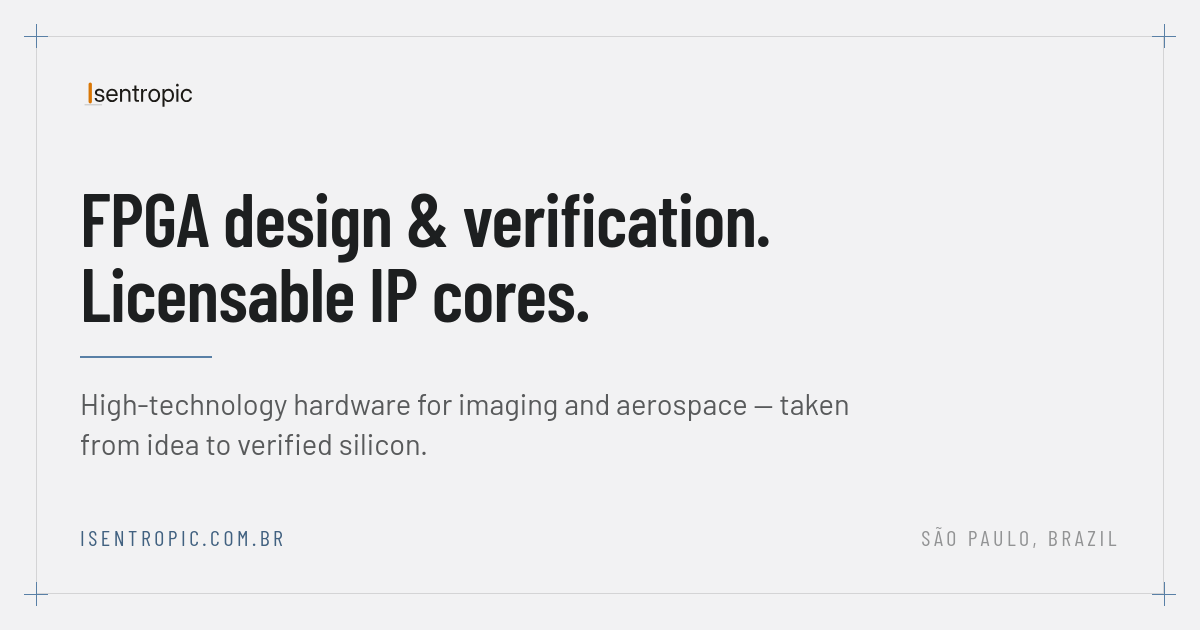
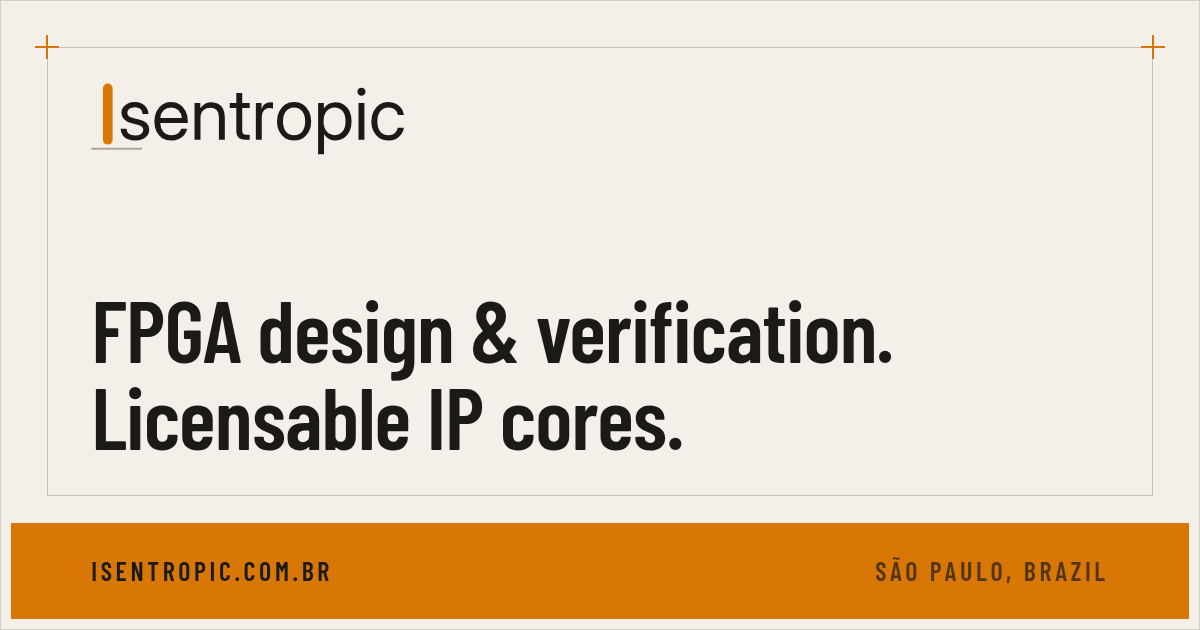
Make the social cards readable at the size a feed paints them
Two defects, both invisible at 1:1 and fatal at thumbnail size.

og-card.png shipped in the design system's stock steel-blue-on-grey:
SocialCards.dc.html loaded the Industry stylesheet but never site.css,
which is what re-points the palette to amber on warm paper. The preview
shared no color at all with the site it links to, and the only amber on
it was the tick baked into the wordmark SVG.

The wordmark was also sized as mostly padding. Its viewBox is 481x180
but the ink spans only x 18..438 and y 60..150, so the 123x46 box bought
an 18px cap-height — about 8px once LinkedIn paints the card at 552px.
That is why the card read as unbranded text.

Both cards now link site.css, size the wordmark by its ink rather than
its box, and carry the frame and registration marks at 2px so they
survive the ~46% downscale instead of vanishing. Copy that went
illegible at feed scale is cut: the main card keeps its two headline
lines at 86px over a solid amber base band, the one element still
carrying the brand at 320px, and OpenJLS keeps a one-line description
whose old tail merely restated the stats row beneath it.

diff --git a/SocialCards.dc.html b/SocialCards.dc.html
@@ -10,63 +10,128 @@
 <helmet>
 <link rel="stylesheet" href="_ds/industry-8df8084b-247a-4c13-b5b0-50b41d41eb2f/styles.css">
 <script src="_ds/industry-8df8084b-247a-4c13-b5b0-50b41d41eb2f/_ds_bundle.js"></script>
+<!-- site.css carries the warm retune of the Industry palette (amber on paper).
+     Without it the cards render in Industry's stock steel-blue-on-grey, which
+     is what shipped in og-card.png: a preview that shares no color at all with
+     the site it links to. -->
+<link rel="stylesheet" href="site.css">
 <link rel="preconnect" href="https://fonts.googleapis.com">
 <link rel="preconnect" href="https://fonts.gstatic.com" crossorigin="">
+<style>
+/* ---- card tokens ----
+   A card is static art, not a themed page: site.css hangs the dark ramp off
+   html[data-theme="dark"], which cannot scope to one card when several sit on
+   the same board. Re-declaring those same values on .card-dark lets a dark
+   card use the identical var() names as a light one. Keep in step with the
+   dark block in site.css. */
+.card-dark{
+  --color-bg:#16130e; --color-surface:#1f1b14; --color-text:#f0ebe1;
+  --color-accent:#e08b23; --color-accent-700:#eeb367; --color-accent-900:#48290c;
+}
+
+/* ---- wordmark ----
+   isentropic-wordmark.svg has a 481x180 viewBox but its ink spans only
+   x 18..438 and y 60..150 — 87% of the width and 50% of the height. Sizing the
+   <img> therefore sizes mostly padding: the card used to ask for 123x46 and got
+   an 18px cap-height, which LinkedIn paints at ~8px. Nobody could see it, so
+   the card read as unbranded text.
+
+   .wm sizes the box so the INK lands at a 52px cap-height, then pulls the dead
+   padding back out of the flow with negative margins so the letterforms sit
+   flush against the headline and the frame.
+     scale 134/180 = 0.744 -> ink starts 13.4 in from the left, 44.6 down from
+     the top, and leaves 22.7 of slack under the descenders. */
+.wm{width:358px;height:134px;display:block;position:relative;align-self:flex-start;
+    margin:-44.6px 0 -22.7px -13.4px;}
+
+/* ---- registration marks ----
+   The engineering-drawing motif, at 2px so it survives the ~46% downscale a
+   feed applies; the old 1px marks and the 14%-opacity frame vanished entirely. */
+.cardframe{position:absolute;inset:36px;border:1px solid color-mix(in srgb,var(--color-text) 22%,transparent);}
+.regmark{position:absolute;width:24px;height:24px;
+  background:linear-gradient(var(--color-accent),var(--color-accent)) center/100% 2px no-repeat,
+             linear-gradient(var(--color-accent),var(--color-accent)) center/2px 100% no-repeat;}
+.rm-tl{left:24px;top:24px;} .rm-tr{right:24px;top:24px;}
+.rm-bl{left:24px;bottom:24px;} .rm-br{right:24px;bottom:24px;}
+
+.card{width:1200px;height:630px;flex:none;position:relative;overflow:hidden;box-sizing:border-box;
+      background:var(--color-bg);color:var(--color-text);display:flex;flex-direction:column;}
+/* Content layers sit above the absolutely-positioned frame. Named explicitly
+   rather than as `.card > *`: that blanket rule ties with .cardframe/.regmark
+   on specificity, wins by source order, and drops the frame parts back into
+   the flex flow — which reads as a mangled border and a top-crammed card. */
+.card > .lyr{position:relative;}
+.card-eyebrow{font-family:var(--font-heading);font-size:23px;font-weight:600;letter-spacing:0.16em;text-transform:uppercase;}
+</style>
 </helmet>
 
-<div style="display:flex;flex-direction:column;gap:32px;padding:32px;background:var(--color-neutral-200);">
+<div style="display:flex;flex-direction:column;gap:32px;padding:32px;background:var(--color-neutral-300);">
 
-  <div id="og-card" style="width:1200px;height:630px;flex:none;position:relative;background:var(--color-bg);color:var(--color-text);display:flex;flex-direction:column;justify-content:space-between;padding:76px 80px;box-sizing:border-box;overflow:hidden;">
-    <div style="position:absolute;inset:36px;border:1px solid color-mix(in srgb,var(--color-text) 14%,transparent);"></div>
-    <div style="position:absolute;left:24px;top:24px;width:24px;height:24px;background:linear-gradient(var(--color-accent),var(--color-accent)) center/100% 1px no-repeat,linear-gradient(var(--color-accent),var(--color-accent)) center/1px 100% no-repeat;"></div>
-    <div style="position:absolute;right:24px;top:24px;width:24px;height:24px;background:linear-gradient(var(--color-accent),var(--color-accent)) center/100% 1px no-repeat,linear-gradient(var(--color-accent),var(--color-accent)) center/1px 100% no-repeat;"></div>
-    <div style="position:absolute;left:24px;bottom:24px;width:24px;height:24px;background:linear-gradient(var(--color-accent),var(--color-accent)) center/100% 1px no-repeat,linear-gradient(var(--color-accent),var(--color-accent)) center/1px 100% no-repeat;"></div>
-    <div style="position:absolute;right:24px;bottom:24px;width:24px;height:24px;background:linear-gradient(var(--color-accent),var(--color-accent)) center/100% 1px no-repeat,linear-gradient(var(--color-accent),var(--color-accent)) center/1px 100% no-repeat;"></div>
+  <!-- ============================================================
+       og-card.png — the link preview for every page of the site.
+       Sized for the worst case rather than the best: a feed paints
+       1200x630 at ~552px, so nothing here may depend on detail that
+       does not survive a 46% downscale.
+       ============================================================ -->
+  <div id="og-card" class="card">
+    <!-- The frame stops 20px short of the band rather than running under it,
+         so the band reads as the card's base and not as a crop. -->
+    <div class="lyr" style="flex:1;display:flex;flex-direction:column;justify-content:space-between;padding:76px 80px 56px;">
+      <div class="cardframe" style="inset:36px 36px 20px;"></div>
+      <div class="regmark rm-tl"></div><div class="regmark rm-tr"></div>
 
-    <div style="position:relative;align-self:flex-start;width:123px;height:46px;">
-      <img src="out/isentropic-wordmark.svg" alt="Isentropic" style="width:123px;height:46px;display:block;"></div>
+      <img class="lyr wm" src="out/isentropic-wordmark.svg" alt="Isentropic">
 
-    <div style="position:relative;display:flex;flex-direction:column;gap:26px;">
-      <h1 style="font-family:var(--font-heading);font-size:74px;line-height:1.02;letter-spacing:-0.01em;font-weight:600;margin:0;max-width:900px;text-wrap:balance;">FPGA design &amp; verification.<br>Licensable IP cores.</h1>
-      <div style="width:132px;height:2px;background:var(--color-accent);"></div>
-      <p style="font-family:var(--font-body);font-size:29px;line-height:1.35;margin:0;color:color-mix(in srgb,var(--color-text) 72%,transparent);max-width:820px;">High-technology hardware for imaging and aerospace — taken from idea to verified silicon.</p>
+      <!-- Headline only. The strapline under it was the first thing to go
+           illegible at feed scale, and cutting it lets the two lines that do
+           carry the message run bigger. -->
+      <h1 class="lyr" style="font-family:var(--font-heading);font-size:86px;line-height:1.02;letter-spacing:-0.01em;font-weight:600;margin:0;max-width:1000px;">FPGA design &amp; verification.<br>Licensable IP cores.</h1>
     </div>
 
-    <div style="position:relative;display:flex;align-items:baseline;justify-content:space-between;font-family:var(--font-heading);font-size:22px;letter-spacing:0.16em;text-transform:uppercase;color:var(--color-accent-700);">
+    <!-- Solid amber base. This is the one element that still carries the brand
+         at 320px, where the frame is a hairline and the eyebrow type is mush. -->
+    <div class="card-eyebrow" style="flex:none;height:96px;background:var(--color-accent);display:flex;align-items:center;justify-content:space-between;padding:0 80px;font-size:26px;letter-spacing:0.14em;color:#1c1a16;">
       <span>isentropic.com.br</span>
-      <span style="color:color-mix(in srgb,var(--color-text) 45%,transparent);">São Paulo, Brazil</span>
+      <span style="opacity:.7;">São Paulo, Brazil</span>
     </div>
   </div>
 
-  <div id="og-openjls" style="width:1200px;height:630px;flex:none;position:relative;background:var(--color-accent-900);color:var(--color-neutral-100);display:flex;flex-direction:column;justify-content:space-between;padding:76px 80px;box-sizing:border-box;overflow:hidden;">
-    <div style="position:absolute;inset:36px;border:1px solid color-mix(in srgb,var(--color-neutral-100) 26%,transparent);"></div>
-    <div style="position:absolute;left:24px;top:24px;width:24px;height:24px;background:linear-gradient(var(--color-neutral-100),var(--color-neutral-100)) center/100% 1px no-repeat,linear-gradient(var(--color-neutral-100),var(--color-neutral-100)) center/1px 100% no-repeat;opacity:.55;"></div>
-    <div style="position:absolute;right:24px;top:24px;width:24px;height:24px;background:linear-gradient(var(--color-neutral-100),var(--color-neutral-100)) center/100% 1px no-repeat,linear-gradient(var(--color-neutral-100),var(--color-neutral-100)) center/1px 100% no-repeat;opacity:.55;"></div>
-    <div style="position:absolute;left:24px;bottom:24px;width:24px;height:24px;background:linear-gradient(var(--color-neutral-100),var(--color-neutral-100)) center/100% 1px no-repeat,linear-gradient(var(--color-neutral-100),var(--color-neutral-100)) center/1px 100% no-repeat;opacity:.55;"></div>
-    <div style="position:absolute;right:24px;bottom:24px;width:24px;height:24px;background:linear-gradient(var(--color-neutral-100),var(--color-neutral-100)) center/100% 1px no-repeat,linear-gradient(var(--color-neutral-100),var(--color-neutral-100)) center/1px 100% no-repeat;opacity:.55;"></div>
+  <!-- ============================================================
+       og-openjls.png — the link preview for the OpenJLS page.
+       Same family as og-card: same ground, same registration marks,
+       and the wordmark carries the brand instead of a line of type
+       too small to read.
+       ============================================================ -->
+  <div id="og-openjls" class="card card-dark" style="justify-content:space-between;padding:64px 80px 68px;background:var(--color-accent-900);">
+    <div class="cardframe" style="border-color:color-mix(in srgb,var(--color-text) 26%,transparent);"></div>
+    <div class="regmark rm-tl"></div><div class="regmark rm-tr"></div>
+    <div class="regmark rm-bl"></div><div class="regmark rm-br"></div>
 
-    <div style="position:relative;display:flex;align-items:baseline;justify-content:space-between;font-family:var(--font-heading);font-size:21px;letter-spacing:0.18em;text-transform:uppercase;color:color-mix(in srgb,var(--color-neutral-100) 70%,transparent);">
-      <span>Isentropic — IP core</span>
-      <span>Open source · GPLv3</span>
+    <div class="lyr" style="display:flex;align-items:center;justify-content:space-between;gap:40px;">
+      <img class="wm" src="out/isentropic-wordmark-dark.svg" alt="Isentropic" style="width:250px;height:94px;margin:-31.2px 0 -15.9px -9.4px;">
+      <span class="card-eyebrow" style="color:color-mix(in srgb,var(--color-text) 72%,transparent);">Open source · GPLv3</span>
     </div>
 
-    <div style="position:relative;display:flex;flex-direction:column;gap:24px;">
-      <h1 style="font-family:var(--font-heading);font-size:104px;line-height:0.96;letter-spacing:-0.015em;font-weight:600;margin:0;">OpenJLS</h1>
-      <p style="font-family:var(--font-body);font-size:31px;line-height:1.3;margin:0;color:color-mix(in srgb,var(--color-neutral-100) 82%,transparent);max-width:840px;">Vendor-agnostic lossless JPEG-LS encoder for FPGAs. One pixel per clock, verified byte-exact against the reference codec.</p>
+    <div class="lyr" style="display:flex;flex-direction:column;gap:24px;">
+      <h1 style="font-family:var(--font-heading);font-size:112px;line-height:0.96;letter-spacing:-0.015em;font-weight:600;margin:0;">OpenJLS</h1>
+      <!-- One line only. What followed the em dash (one pixel per clock,
+           byte-exact conformance) is already the stats row below, so cutting
+           it loses nothing and buys the line a bigger size. -->
+      <p style="font-family:var(--font-body);font-size:36px;line-height:1.3;margin:0;color:color-mix(in srgb,var(--color-text) 84%,transparent);max-width:1000px;">Vendor-agnostic lossless JPEG-LS encoder for FPGAs.</p>
     </div>
 
-    <div style="position:relative;display:grid;grid-template-columns:repeat(3,max-content);gap:56px;border-top:1px solid color-mix(in srgb,var(--color-neutral-100) 26%,transparent);padding-top:26px;">
-      <div style="display:flex;flex-direction:column;gap:6px;">
-        <span style="font-family:var(--font-heading);font-size:44px;line-height:1;font-variant-numeric:tabular-nums;">~240</span>
-        <span style="font-family:var(--font-heading);font-size:18px;letter-spacing:0.14em;text-transform:uppercase;color:color-mix(in srgb,var(--color-neutral-100) 66%,transparent);">Mpixel/s</span>
+    <div class="lyr" style="display:grid;grid-template-columns:repeat(3,max-content);gap:64px;border-top:1px solid color-mix(in srgb,var(--color-text) 26%,transparent);padding-top:28px;">
+      <div style="display:flex;flex-direction:column;gap:8px;">
+        <span style="font-family:var(--font-heading);font-size:52px;line-height:1;font-weight:600;font-variant-numeric:tabular-nums;color:var(--color-accent-700);">~240</span>
+        <span class="card-eyebrow" style="font-size:21px;color:color-mix(in srgb,var(--color-text) 70%,transparent);">Mpixel/s</span>
       </div>
-      <div style="display:flex;flex-direction:column;gap:6px;">
-        <span style="font-family:var(--font-heading);font-size:44px;line-height:1;font-variant-numeric:tabular-nums;">1 px</span>
-        <span style="font-family:var(--font-heading);font-size:18px;letter-spacing:0.14em;text-transform:uppercase;color:color-mix(in srgb,var(--color-neutral-100) 66%,transparent);">per clock</span>
+      <div style="display:flex;flex-direction:column;gap:8px;">
+        <span style="font-family:var(--font-heading);font-size:52px;line-height:1;font-weight:600;font-variant-numeric:tabular-nums;color:var(--color-accent-700);">1 px</span>
+        <span class="card-eyebrow" style="font-size:21px;color:color-mix(in srgb,var(--color-text) 70%,transparent);">per clock</span>
       </div>
-      <div style="display:flex;flex-direction:column;gap:6px;">
-        <span style="font-family:var(--font-heading);font-size:44px;line-height:1;font-variant-numeric:tabular-nums;">ISO 14495-1</span>
-        <span style="font-family:var(--font-heading);font-size:18px;letter-spacing:0.14em;text-transform:uppercase;color:color-mix(in srgb,var(--color-neutral-100) 66%,transparent);">conformant</span>
+      <div style="display:flex;flex-direction:column;gap:8px;">
+        <span style="font-family:var(--font-heading);font-size:52px;line-height:1;font-weight:600;font-variant-numeric:tabular-nums;color:var(--color-accent-700);">ISO 14495-1</span>
+        <span class="card-eyebrow" style="font-size:21px;color:color-mix(in srgb,var(--color-text) 70%,transparent);">conformant</span>
       </div>
     </div>
   </div>
